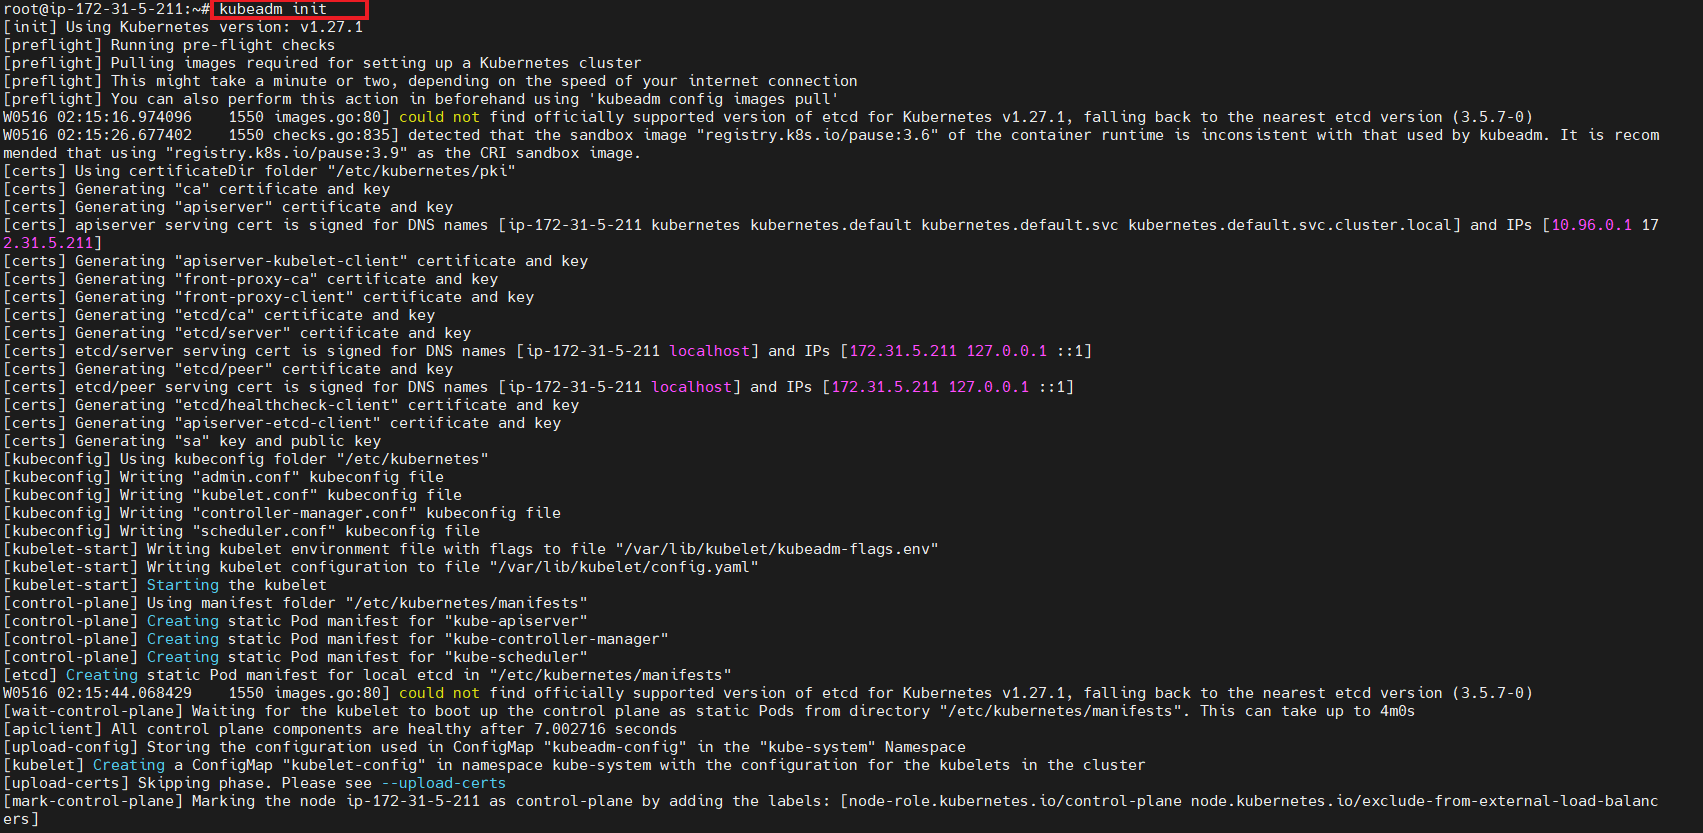
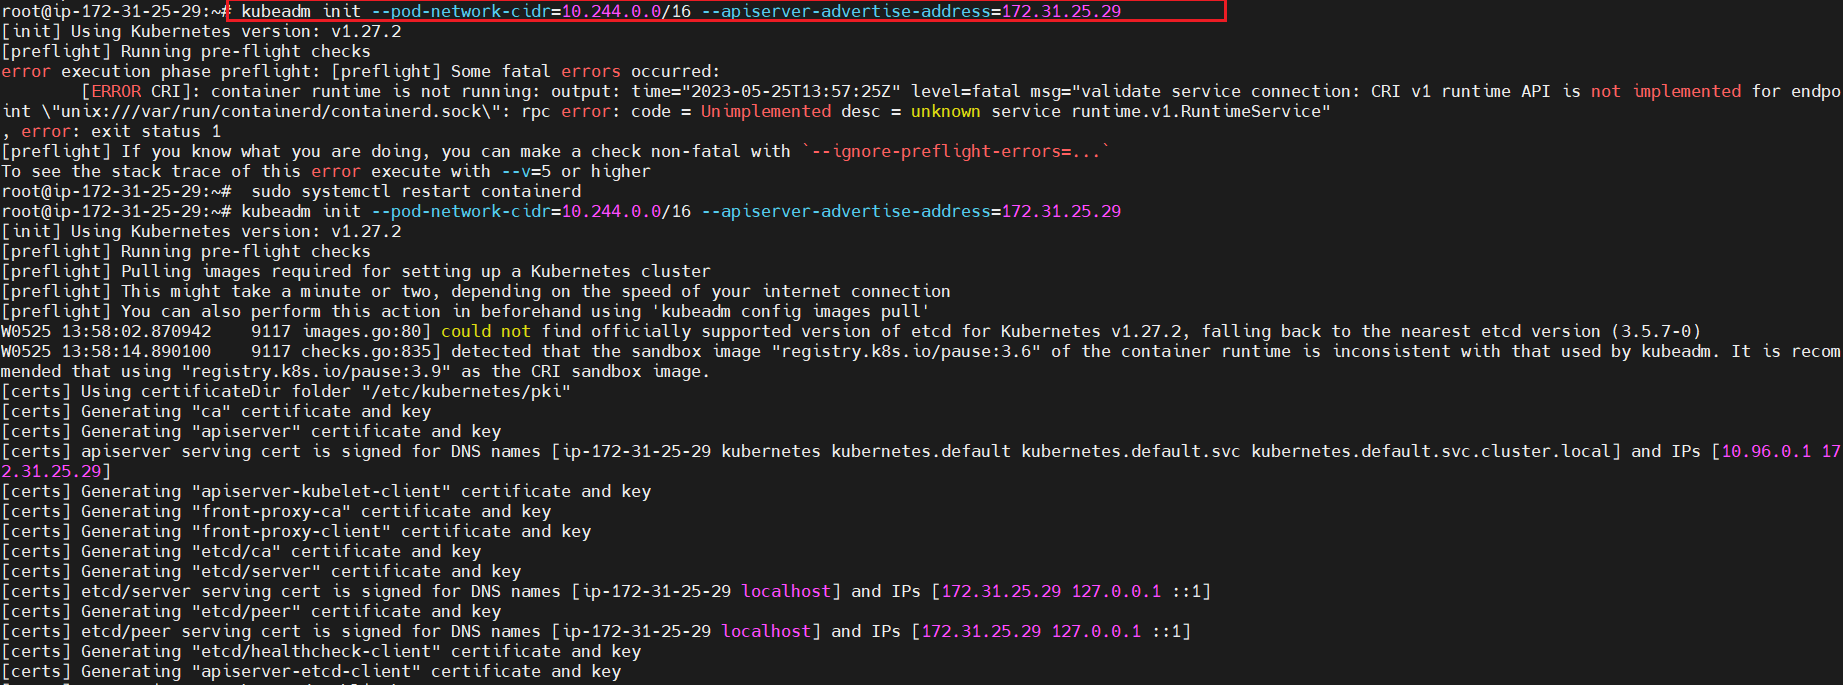
.

Changed region(s): [[0.0, 0.0, 1.0, 1.0]]

diff --git a/FEB-2023/Docker & Kubernetes/K8s.md b/FEB-2023/Docker & Kubernetes/K8s.md
@@ -137,10 +137,8 @@
       * Steps to disable swap
        ```
        sudo swapoff -a
-       sudo vi  /etc/fstab   -- remove or comment the line with swap
        sudo reboot
-       sudo swapon --show    -- If swap is disabled correctly , no output will will be shown 
- 
+
        ```
 
 1. Take 3 VM's from AWS , having atleat 2 GB RAM 2 VCPUS 
@@ -250,7 +248,7 @@
 
         
       ```
-      sudo apt-get install docker-ce docker-ce-cli containerd.io docker-buildx-plugin docker-compose-plugin
+      sudo apt-get install -y  containerd.io 
       ```
         
 
@@ -333,7 +331,7 @@
 
 ```
 sudo su -
-kubeadm init 
+kubeadm init --pod-network-cidr=10.244.0.0/16 --apiserver-advertise-address=<K8sMasterPrivateIP>
 
 ```
 * Run below steps if your getting error as ``` container runtime is not running```
@@ -469,8 +467,8 @@ metadata:
     type: frontend
 spec:
   containers: 
-    - name: nginx
-      image: nginx 
+  - name: nginx
+    image: nginx 
 ```
 
 * Connect to the k8s master and try to use above manifest to create a pod.
@@ -535,8 +533,8 @@ spec:
         type: frontend
     spec: 
       containers: 
-        - name: nginx
-          image: nginx
+      - name: nginx
+        image: nginx
 ```
 
 * Run below commands to apply Replicationcontroller
@@ -575,8 +573,8 @@ spec:
         type: frontend
     spec: 
       containers: 
-        - name: nginx
-          image: nginx
+      - name: nginx
+        image: nginx
   selector:
     matchLabels:
       app: myapp
